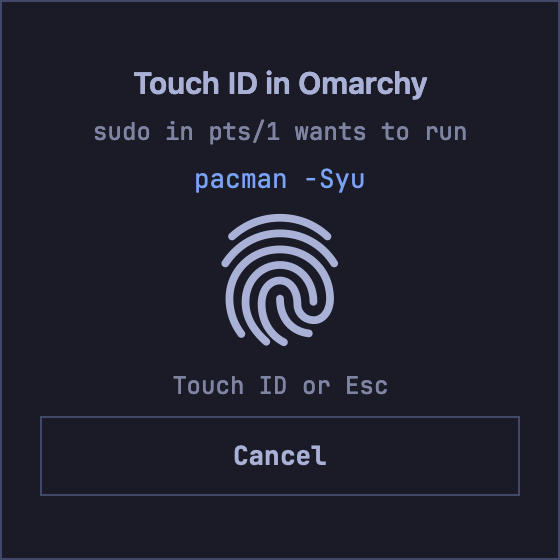
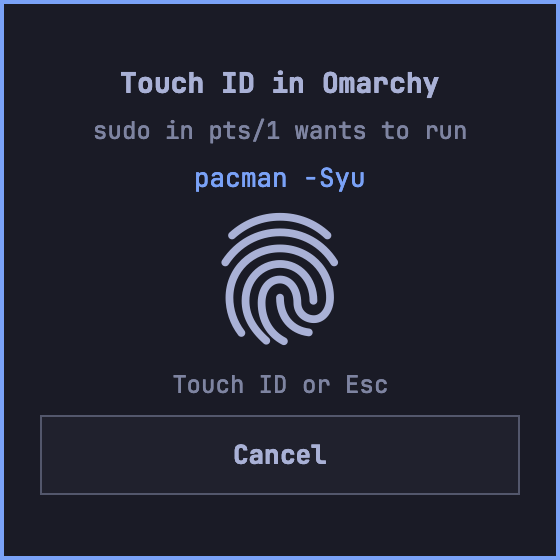
Touch ID panel: docs for the theme and the speed
ADR 0041's panel and theme sections say what the panel draws now, that
nothing waits for it, how the theme travels and stays, and the tests;
the panel pictures are drawn again (Tokyo Night, Flexoki Light); a
CHANGELOG entry under 3.0.4 (unreleased).

diff --git a/docs/adr/0041-touch-id.md b/docs/adr/0041-touch-id.md
@@ -460,19 +460,28 @@ Status: built (`touch-id-302`, 2026-10-06). Touch ID stays opt-in and off
 by default; this only changes what the Mac shows once it is on.
 
 ![The panel, Tokyo Night](../images/touchid-panel.png)
+![The panel, Flexoki Light](../images/touchid-panel-light.png)
 
 ### What
 
 For OmacVM.app's VMs the Mac asks in its own panel instead of macOS's
-dialog: a 280 pt square with square corners, centred on the VM's window, in
-the VM's Omarchy theme: "Touch ID in Omarchy", one plain line saying what
-asks, the verified command in JetBrains Mono, the fingerprint glyph (five
-strokes, round caps), a state line ("Touch ID or Esc"), Cancel. The glyph
-follows the chosen "Ridge" design: while it waits it breathes; on a finger
-the ridges trace in the accent colour from the core outwards, then turn
-green, fade from the outside in and a check draws (done); a finger it does
-not know or a lockout turns them red, they jolt and the panel shakes. With
-"Reduce motion" on, only colours and fades change.
+dialog: a 280 pt square centred on the VM's window, framed and coloured as
+Omarchy frames its own password prompt for the VM's theme (3.0.4: its
+background, text and accent, a 2 pt border in Hyprland's active border
+colours, a gradient too, and Hyprland's rounding): "Touch ID in Omarchy",
+one plain line saying what asks, the verified command, the fingerprint
+glyph (five strokes, round caps), a state line ("Touch ID or Esc"), Cancel
+(an Omarchy control). All text is JetBrains Mono. The glyph follows the
+chosen "Ridge" design: while it waits it breathes; a finger it does not
+know or a lockout turns it red, it jolts, the panel shakes and its border
+turns the error colour (0.6 s); a yes shows the green check in its place.
+
+Nothing waits for the panel (3.0.4): the yes goes to the VM the moment
+macOS says the finger matched, the keyboard and pointer go back to the VM
+in the same moment, and the check stays only 90 ms (none with "Reduce
+motion"), with no fade. 3.0.2 and 3.0.3 played a trace and a drawn check
+for 1.6 s, and QEMU kept the guest's input until the panel closed, so
+typing right after the yes went nowhere.
 
 Parallels, UTM and VMware Fusion keep macOS's own dialog.
 
@@ -539,11 +548,20 @@ a signed yes or no, and never reaches the panel's socket or the relay.
 
 The VM sends its colours with `POST /omacvm/theme` (signed with its control
 key; only with Touch ID on; at most 512 bytes, one a second): `background`,
-`foreground`, `accent`, `error`, `success` (colors.toml `green`), `muted`
-(colors.toml `muted`, the panel's lines), plus Hyprland's border and
-rounding (still accepted, not drawn: the panel is square). Guest:
-`omacvm-touchid-theme` from a user path unit on
-`~/.local/state/omarchy/current/theme` and once at login. Mac rules:
+`foreground`, `accent`, `error` (shell.toml `[polkit]`: background, text,
+accent, text-error; else colors.toml), `success` (colors.toml `green`),
+`muted` (colors.toml `muted`, for the 3.0.2/3.0.3 panels), and the border
+(the prompt's own when the theme gives one, else Hyprland's
+`general:col.active_border`, one colour or a gradient with its angle) and
+`decoration:rounding`. The Bridge passes all of it to the panel in the 103
+(3.0.4; before, only the colours). Guest: `omacvm-touchid-theme` from a
+user path unit on `~/.local/state/omarchy/current`, once its files have
+been quiet for 0.8 s (at most 3 s); at each login; and at once when Touch
+ID is turned on (touchid.sh clears its record of the last send, which
+also holds the boot). The Mac keeps the last good theme per VM, also while
+Touch ID is off, so the panel follows the VM's last known theme until a
+new one comes (3.0.2 and 3.0.3 deleted it on off and did not send it again
+on on: the user's light VM got a dark panel). Mac rules:
 `#rrggbb` only; text under 4.5:1 on its background refuses the whole theme
 (all 22 stock themes pass, lowest rose-pine 6.7:1); accent, error and
 success under 3:1 become the text colour (success: catppuccin-latte),
@@ -568,16 +586,24 @@ always the bundled JetBrains Mono (OFL 1.1), never one the VM names.
 
 ### Tests
 
-- `swift run touchid-panel-tests` (app/app): theme, glyph paths, words that
-  fit (shown whole, else macOS's dialog), keys, how an evaluation ends, placement, the
-  view drawn off screen (never on screen, no `LAContext`).
+- `swift run touchid-panel-tests` (app/app): theme and frame (the 103's
+  border and rounding through the app to the panel), glyph paths, words that
+  fit (shown whole, else macOS's dialog), keys, how an evaluation ends and
+  how long each end stays, placement, the view drawn off screen (never on
+  screen, no `LAContext`). `--live OUT.json` (a test Mac's screen, never
+  CI): the real controller and window with a stand-in that ends on cue,
+  timing the answer, the input going back and the panel leaving the screen.
 - `swift run auth-tests`: the prompt and answer lines, the interim 103, the
   relay with a Bridge that asks for the panel, the client going away during
   the panel, the panel's socket (show, close, no panel).
 - `src/bridge/mac/tests/run.sh`: the theme's rules with the 22 stock themes
   (with green and muted), the app panel's answer lines (never a yes from
   junk), the decider passing the app's panel on.
-- pytest: the guest sender with `success` and `muted`.
+- pytest: the guest sender with `success` and `muted`, Omarchy's prompt
+  colours (`[polkit]` accent, the prompt's own gradient border, Hyprland's
+  token), a light theme without shell.toml (Flexoki Light), sending once
+  per change and boot and again after on/off, the wait for a switch to
+  settle.
 - MacBook Air (macOS 26.6.2, Touch ID, 2026-10-06 23:04-23:20; the test
   app's QEMU and dylib, its test Bridge, the relay as Runner runs it, a
   guest stand-in; no finger at night). The panel came from QEMU (its pid,

diff --git a/CHANGELOG.md b/CHANGELOG.md
@@ -3,6 +3,18 @@
 What's new in each OmacVM release. The release notes on GitHub say the same
 in more words.
 
+## 3.0.4 (unreleased)
+
+- Touch ID in OmacVM.app: the panel now looks like Omarchy's own password
+  prompt in your theme, light themes too: its colours, a border in
+  Hyprland's border colours and its rounding. It follows a theme switch
+  within a second, and comes in your VM's last theme at once after Touch ID
+  was turned off and on (before, that sent it back to the dark default).
+- Touch ID is faster: after a yes the VM goes on the moment your finger
+  matches, and the panel is gone at once (a 90 ms check, none with Reduce
+  Motion), with your keyboard back in the VM in the same moment. Before,
+  the panel played 1.6 s of animation and held your keys meanwhile.
+
 ## 3.0.3
 
 - Touch ID: the Mac's panel in OmacVM.app shows a sudo command or polkit
